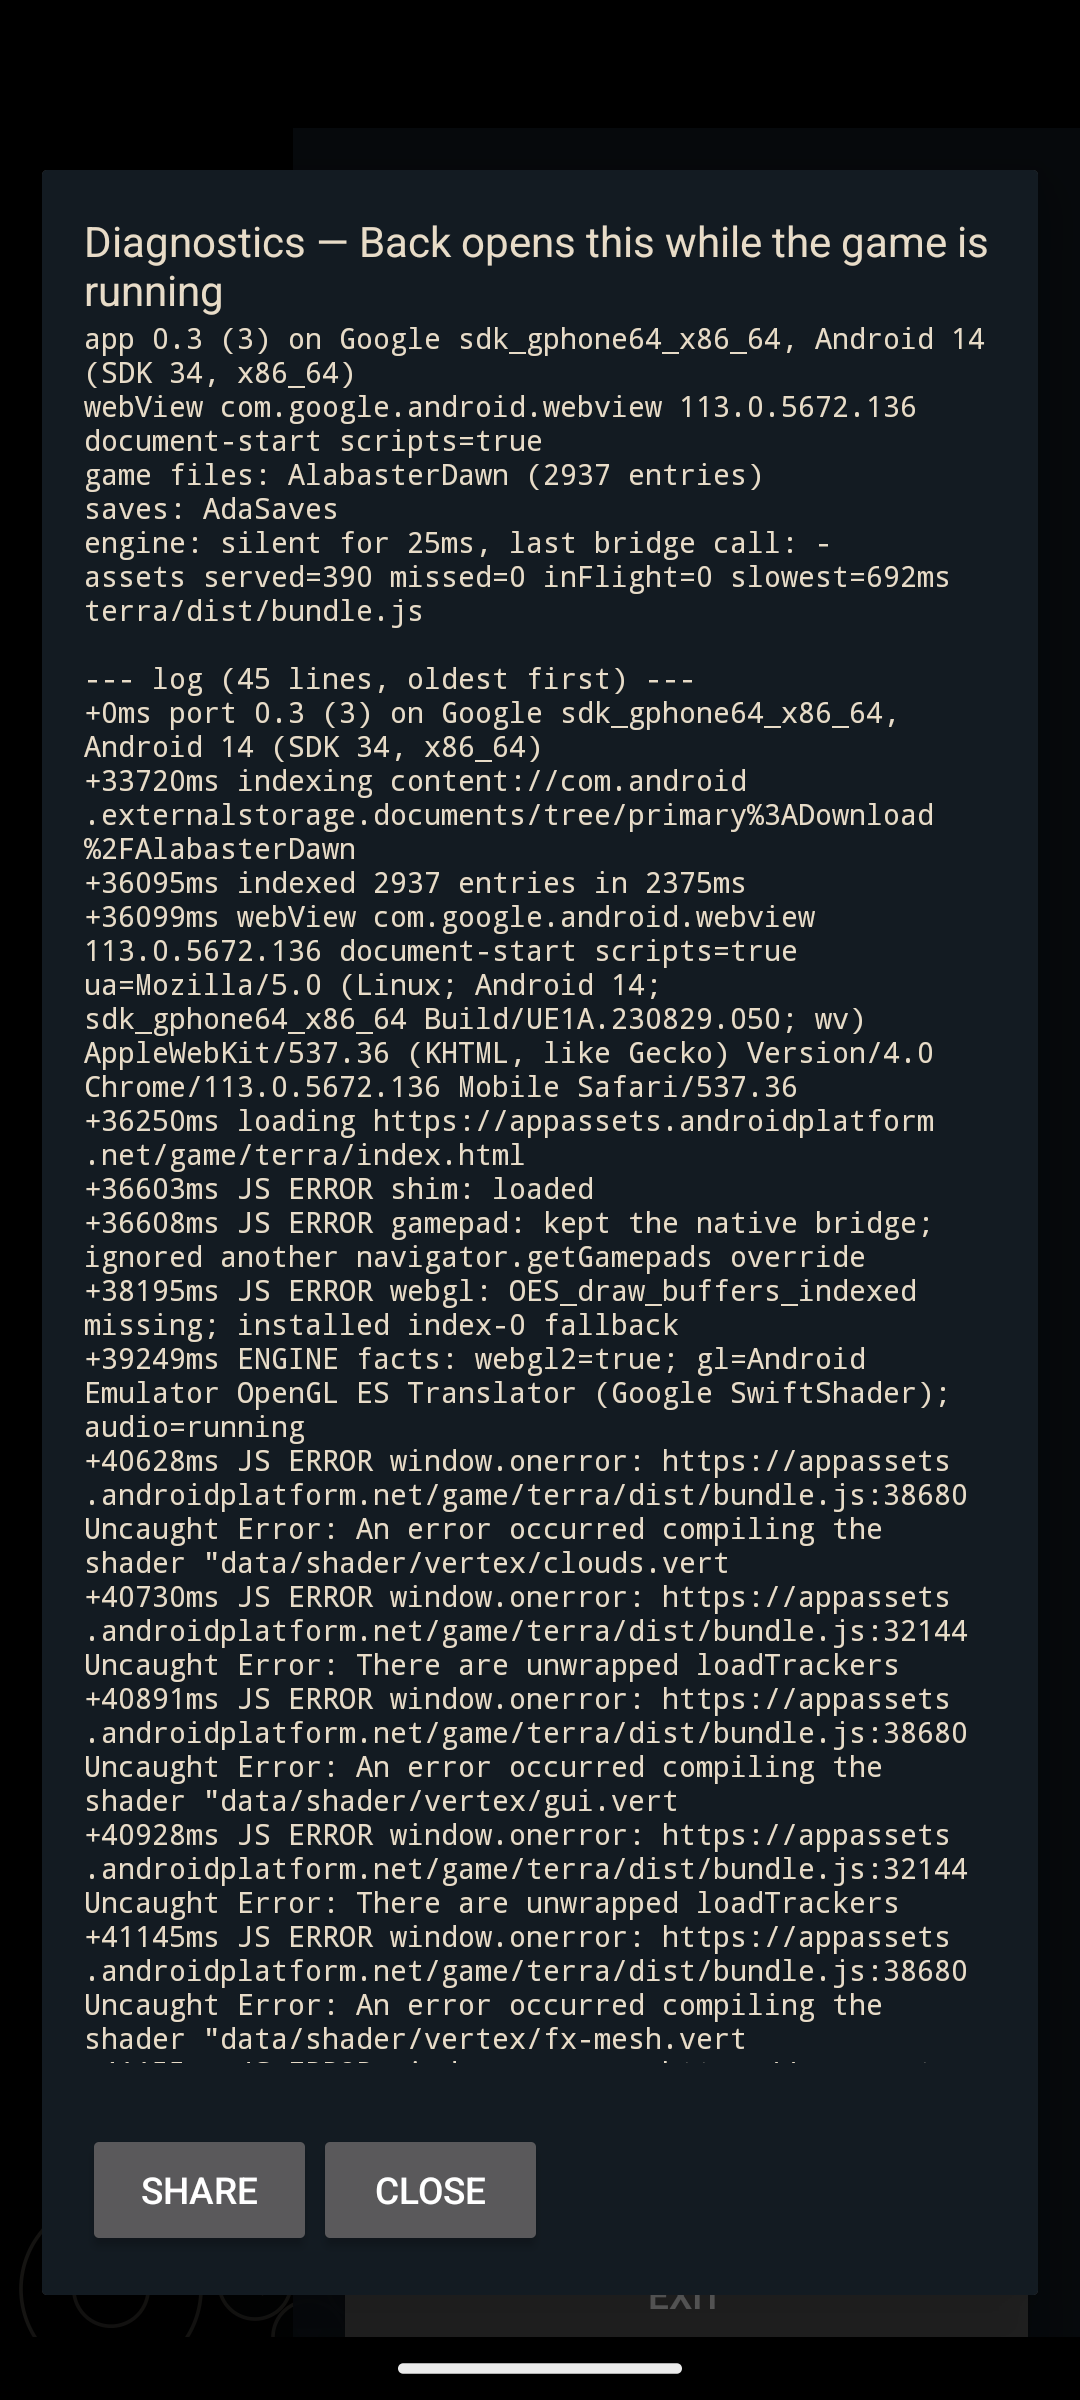
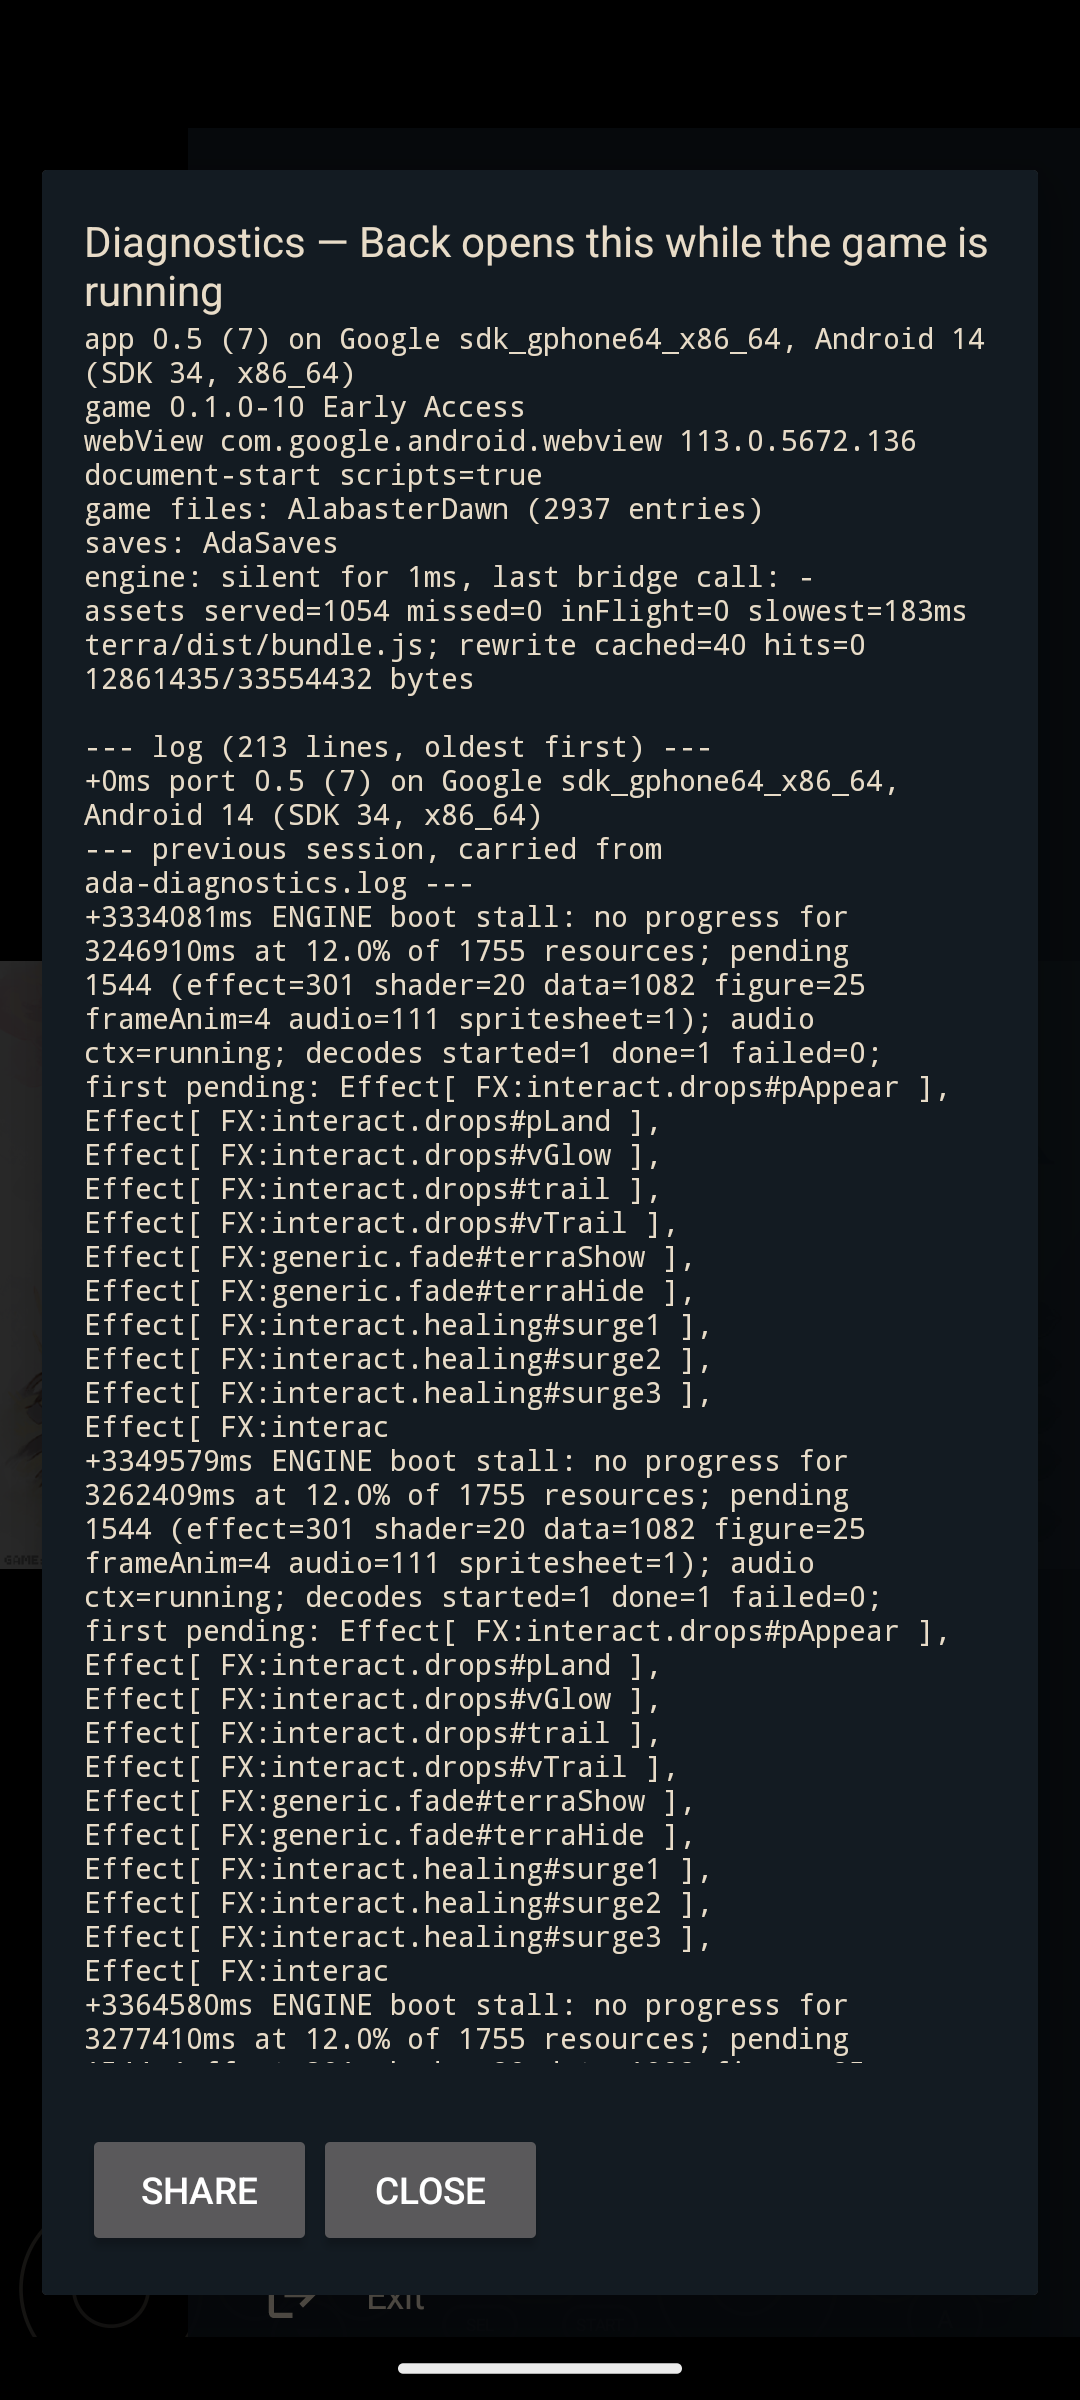
Release 0.5

Changed region(s): [[0.0, 0.1562, 0.8861, 0.875], [0.3361, 0.9375, 0.9472, 1.0], [0.7944, 0.2188, 0.8861, 0.2812]]

diff --git a/README.md b/README.md
@@ -16,9 +16,9 @@ Plus the research notes (`FINDINGS.md`) and the test harness (`tools/`, `logs/`)
 |---|---|---|---|
 | ![Game files and saves pickers](docs/setup.png) | ![Title screen](docs/title-screen.png) | ![On-screen pad over the title screen](docs/on-screen-pad.png) | ![Moving and resizing a pad control](docs/pad-editor.png) |
 
-![The side menu, opened with Back: the two switches, the picture position, the status lines and Exit — with the FPS/battery/temperature readout on](docs/side-menu.png)
+![The side menu, opened with Back: one uniform icon-led list — the switches, the picture position, the status block with the port version, Diagnostics and Exit — with the FPS/battery/temperature readout on](docs/side-menu.png)
 
-![The diagnostics record while the engine's boot was stuck: device, WebView, GL backend, asset counters, and the log naming the shader that failed to compile](docs/diagnostics.png)
+![The diagnostics record while the engine's boot was stuck: the port's and the game's versions, the device, WebView, GL backend, asset counters, and the log naming the resources still pending](docs/diagnostics.png)
 
 *Screenshots contain Alabaster Dawn artwork and text, © Radical Fish Games, shown for documentation.*
 
@@ -49,15 +49,26 @@ Plus the research notes (`FINDINGS.md`) and the test harness (`tools/`, `logs/`)
   `pad-layout.json` at its root, which wins on load so the layout travels with the saves folder.
   While the editor is open the pad publishes no gamepad at all, so the game falls back to keyboard.
 * **A side menu on Back**: Back while the game runs opens a panel over it (the game keeps running
-  behind) with a switch for whether a controller in use hides the overlay, a **Game position** choice
-  (Top / Center / Bottom) for where the picture sits inside the black letterbox bands, a switch for
-  an **FPS / battery / temperature** readout, a switch to **keep a log file with the saves**, two
-  status lines (controller input, where saves go), the last thing the engine reported, and **Exit**.
+  behind) drawn as one uniform, full-width, icon-led list — an Eden / Azahar style menu: every entry
+  is the same height with an icon in a fixed left gutter, the label on a single line with an ellipsis,
+  the control at the right edge, hairlines between rows, and the whole row (icon, label and empty
+  space) is the hit target. It carries a switch for whether a controller in use hides the overlay, a
+  **Game position** choice (Top / Center / Bottom) for where the picture sits inside the black
+  letterbox bands (the current choice is a filled pill), a switch for an **FPS / battery /
+  temperature** readout, a switch to **keep a log file with the saves**, the port version, three
+  status lines (controller input, where saves go, the last thing the engine reported) and **Exit**.
   Back again, a tap on the dimmed area or Exit closes it; all four settings live in the app's prefs,
   and nothing is written into the game folder — the saves tree only ever gains the Steam `Saves/`
-  layout, `pad-layout.json` and that log, all at its root.
-* **Diagnostics without a PC**: the same panel opens the record — device, WebView version and
-  capabilities, GL backend, folders, asset counters and the app's own log — readably on screen (a
+  layout, `pad-layout.json` and that log, all at its root. **Exit ends the app process** (the game's
+  own in-menu Exit does too — see below), so the next launch is a fresh process with a fresh WebView
+  renderer, and the saved record is flushed before the process goes.
+* **The game's own Exit works**: the title screen's **Exit** button (and `System.quit`) now leave the
+  app. The engine's only two ways out — `nw.Window.get().close()` and `nw.App.quit()` — used to be
+  shim no-ops, so the engine tore its own menu down and waited for a process exit that never came, and
+  the picture stopped responding. Both now reach the same path as the side menu's Exit.
+* **Diagnostics without a PC**: the same panel opens the record — device, **port version** and the
+  **game's own build version**, WebView version and capabilities, GL backend, folders, asset counters
+  and the app's own log — readably on screen (a
   screenshot is already a usable report), shareable as text, and written to a file next to the app.
   The record is built for the failure this port actually meets on hardware nobody here owns: when the
   engine's loading bar stops, it names the resources still unfinished, grouped by kind, with the
@@ -146,6 +157,30 @@ The panel and the log now also carry the device's uniform budget and forward the
 says so in the record. See `FINDINGS.md` §10.9 for the measurements, including what the fix costs (64
 fewer atlas slots per atlas on a floored device, out of the game's 256).
 
+The exit/version/side-menu work (2026-09-26) was verified on the same Android 14 emulator (`-gpu
+host`). Driving the engine's own exit over CDP — `python3 tools/probes/cdp.py
+'window.nw.Window.get().close()'`, the exact call the title screen's EXIT button makes — and the side
+menu's Exit both printed `exit requested`, left `pidof` empty and `dumpsys activity activities` with
+no task, so the next launch is a fresh process: three consecutive launches each reached `ENGINE boot:
+complete` with the title screen drawn and a new pid. The setup screen showed `port 0.5 (7)`, the
+side menu's status block the same line, and the in-game Diagnostics header `game 0.1.0-10 Early
+Access` — the game's own build, read from `bundle.js` (`class VersionManager { … }`, hotfix 10, suffix
+"Early Access"); the changelog at `terra/data/database/changelog.json` is the fallback (`0.1.0`)
+before the bundle is served. The side menu renders every entry at one width and height with its icon
+in the same left gutter and the current position as a filled pill; tapping a row's *blank left edge*
+toggled that row's switch, and with the menu left open for 12 s the watchdog logged no `engine silent`
+line, i.e. the WebView never lost focus.
+
+The **shipped release artifact** was then exercised the same way: `android/tools/release.sh`'s signed
+`AlabasterDawn-Android-0.5.apk` was installed on that emulator over a debug uninstall (the keys
+differ), granted the two folders from scratch through the picker, and it booted to the title screen and
+reported `port 0.5 (7)` / `game 0.1.0-10 Early Access`. Both exits were driven through the UI on it:
+the side menu's **Exit** and the game's own title-screen **Exit** (highlighted with the on-screen pad's
+D-pad and confirmed with **A** — the menu is pad-driven, a plain tap does nothing), each leaving no pid
+and no task, and a relaunch reached `ENGINE boot: complete` in a new process. The shim inside the
+release APK is byte-identical to `assets/ada-shim.js` (`sha256` matched), which is what makes the
+debug-build CDP evidence above carry over to the release build.
+
 ### Download
 
 Grab `AlabasterDawn-Android-<version>.apk` from
@@ -156,7 +191,7 @@ certificate** — `CN=Alabaster Dawn Android port, O=moronigranja, C=BR`, SHA-25
 install:
 
 ```bash
-apksigner verify --print-certs AlabasterDawn-Android-0.4.2.apk   # no SDK? keytool -printcert -jarfile …
+apksigner verify --print-certs AlabasterDawn-Android-0.5.apk   # no SDK? keytool -printcert -jarfile …
 ```
 
 The APK carries `assets/LICENSE` + `assets/NOTICE.md` inside, so the binary ships the notices it is
@@ -165,16 +200,16 @@ say) needs an uninstall first.
 
 ### Not in this milestone
 
-* **Starting the game twice in the same app process can come up black.** Leaving the game (Back at
-  the side menu, or Exit) and starting it again *without* clearing the app from recents can stop the
-  second boot before the title screen with an unresponsive picture. It predates this release
-  (reproduced on the v0.2 build) and the workaround is to swipe the app away from recents — or
-  force-stop it — before starting again, which always boots. Your files are untouched either way.
 * The on-screen pad's stick **clicks** (L3/R3) are not exposed, and its multi-finger handling has
   unit tests but no real two-thumb pass on a phone yet.
 * The in-game **Load** list was not eyeballed (needs a manual save); everything underneath it —
   file naming, rotation, metadata, `mtime` — is verified.
 * Performance is GPU-bound; see the ledger below before expecting 1080p.
+* **The emulator's software GL stack draws the in-game map wrong.** SwiftShader
+  (`-gpu swiftshader_indirect`) renders black tiles with purple/pink fragments where the *same build*
+  is correct on real hardware and on the same emulator with the host GPU (`-gpu host`). The port
+  serves identical files and shaders either way, so it is the software renderer, not the port; the
+  title screen, cutscenes and menus draw correctly under it.
 
 ### Requirements
 
@@ -193,7 +228,8 @@ adb install -r app/build/outputs/apk/debug/app-debug.apk
 ```
 
 Unit tests (gamepad state and overlay merge, pad layout and hit rules, the diagnostics ring and its
-line collapsing, the asset-read accounting, the rewrite cache's byte budget, and the log-file rules):
+line collapsing, the asset-read accounting, the rewrite cache's byte budget, the game-version parsing
+from the changelog and the bundle, and the log-file rules):
 
 ```bash
 cd android && ./gradlew :app:testDebugUnitTest
@@ -216,8 +252,12 @@ keytool -genkeypair -keystore ~/.android/alabasterdawn-release.jks -alias alabas
 # then android/keystore.properties: storeFile / storePassword / keyAlias / keyPassword (chmod 600)
 
 android/tools/release.sh                       # signed build + digest + signature check
-android/tools/release.sh --upload --publish --notes docs/release-notes-0.4.2.md
+android/tools/release.sh --upload --publish --notes docs/release-0.5.md
 ```
+
+`--notes` takes the **release body**: since v0.5 that is a terse changelog plus links to the full
+`docs/release-notes-<version>.md` and the README, so the GitHub release page stays short and the
+install/requirements/limitations text lives in the README only.
 
 `tools/release.sh` renames the shipped artifact to `AlabasterDawn-Android-<version>.apk` (never
 `app-release-unsigned.apk`, never `app-debug.apk`) and runs the digest and signature checks on that
@@ -387,7 +427,9 @@ in `gamepad-fix.json`, or use `fix/gpf-diagnose.js` and `tools/inpage-probe.js`.
 ```
 android/    the port (Gradle root + :app; Kotlin, no permissions, one runtime dependency)
             tools/release.sh builds, verifies and publishes the signed APK
-docs/       screenshots used by this README, plus the release notes for each version
+docs/       screenshots used by this README, the release notes for each version
+            (`release-notes-<v>.md`, the detailed document) and its terse release-page
+            body (`release-<v>.md`, the changelog plus links)
 fix/        controller fix for the desktop / Wine build (installer, config, tests, diagnosis)
 tools/      measurement harness: uinput virtual gamepad, in-page probe, fast static server,
             the Node/NW.js browser shim that proved the port feasible
@@ -425,6 +467,8 @@ only change needed (at which point the sub-projects here follow automatically).
   whose explicit browser platform path is what makes this port possible.
 * **[AndroidX WebKit](https://developer.android.com/jetpack/androidx/releases/webkit)** — Apache-2.0
   (`WebViewAssetLoader`, `addDocumentStartJavaScript`).
+* **[Material Symbols](https://fonts.google.com/icons)** — Apache-2.0, © Google LLC; the side menu's
+  icons, converted to vector drawables.
 * **[Gradle](https://gradle.org/)** — the wrapper (`android/gradle/wrapper/`) is Apache-2.0,
   © Gradle, Inc.
 * **[CrossAndroid](https://gitlab.com/Namnodorel/crossandroid)** — prior art for running this engine

diff --git a/docs/release-notes-0.5.md b/docs/release-notes-0.5.md
@@ -1,0 +1,80 @@
+# Alabaster Dawn Android port v0.5 - release notes
+
+An **unofficial**, non-commercial Android port of [Alabaster Dawn](https://store.steampowered.com/app/3110760/)
+(Radical Fish Games, Early Access). Install, requirements, known limitations and the legal notes are
+in the [README](../README.md); the terse changelog is [docs/release-0.5.md](release-0.5.md).
+
+## What's new since v0.4.2
+
+### Exiting the game actually exits
+
+On the title screen, choosing **Exit** used to stop the picture with the game's own menu already gone.
+The engine has only two ways out — the title screen's EXIT calls `nw.Window.get().close()` 300 ms later,
+and `System.quit()` calls `nw.App.quit()` — and the port's shim had both stubbed out as no-ops. The
+engine tore its own menu down and then waited for a process exit that never came, so the screen just
+stopped responding. Both now leave the game, exactly like the port's own **Exit**.
+
+### Every launch is a fresh start
+
+**Exit** — the game's or the port's — now ends the app's process rather than just the screen. That
+matters because the WebView's renderer is shared for the life of the app process, and starting the game
+a second time in the same process could come up black before the title screen (the workaround used to be
+to swipe the app away from recents). With the process ending on Exit, the next launch is a new process,
+a new renderer and a clean GL state: **the old "swipe it from recents first" workaround is gone.**
+
+Your diagnostics record is written out before the process ends, so nothing is lost.
+
+### The side menu is a proper settings list
+
+The side menu (Back while the game runs) is now one uniform, full-width, icon-led list — the layout the
+Eden / Sudachi / Azahar emulators use: every entry the same width and height, an icon in a fixed left
+gutter, the label on a single line, the control at the right edge, thin dividers between rows, and the
+**whole row** is the tap target instead of just the label. The current **Game position** is a filled
+pill.
+
+### Your versions, where you can see them
+
+* The **port's** version now shows on the setup screen and in the side menu's status block, next to the
+  existing diagnostics header line — so a screenshot says which build it came from.
+* The record now also says which build of the **game** your files are. The game's own `package.json`
+  only carries a placeholder, so the port reads the two real sources: the newest release from
+  `terra/data/database/changelog.json` as soon as your folder is indexed (`game 0.1.0`), and the engine's
+  own inlined build once `bundle.js` is served, which is the only place the hotfix lives
+  (`game 0.1.0-10 Early Access`). An Early Access title ships often, and a moved asset or a changed
+  bundle is otherwise indistinguishable from a port bug.
+
+## Verified
+
+On the Android 14 emulator with the host GPU (`-gpu host`), then on the shipped **release** APK:
+driving the engine's own exit over CDP (`nw.Window.get().close()`, the exact call the title screen's
+EXIT makes) and both UI exits — the side menu's **Exit** and the game's own title-screen **Exit**,
+highlighted with the on-screen pad's D-pad and confirmed with **A** — each printed `exit requested`,
+left no pid and **no task in recents**, and set up the next launch fresh: three consecutive launches
+each reached `ENGINE boot: complete` with the title screen drawn and a new process id. The setup screen
+and the side menu showed `port 0.5 (7)`, the diagnostics header read `game 0.1.0-10 Early Access`,
+every menu row drew at one width/height with its icon in the same left gutter, tapping a row's *blank
+left edge* toggled that row's switch, and with the menu left open the engine kept running (the WebView
+never lost focus).
+
+## Known limitations
+
+* The on-screen pad's stick **clicks** (L3/R3) are not exposed, and its multi-finger handling has unit
+  tests but no real two-thumb pass on a phone yet.
+* Devices at the GLES3 vertex-uniform floor get **192 atlas slots per atlas** where the desktop game
+  uses 256 (those are exactly the devices that could not boot at all before v0.4.2). If a scene ever
+  needs more, the engine logs `ATLAS ERROR: Exceeded maximum TEX_SLOT_COUNT of …` into the record.
+* The Android emulator's software GL stack (SwiftShader, `-gpu swiftshader_indirect`) draws the in-game
+  map wrong — black tiles with purple/pink fragments — while the same build is correct on real hardware
+  and on the same emulator with the host GPU (`-gpu host`). The port serves identical files and shaders
+  either way, so it is the software renderer, not the port.
+* Performance is GPU-bound; see the README's ledger before expecting 1080p.
+
+## Everything else is v0.4.2
+
+This release is v0.4.2 plus the changes above: the vertex-uniform fix for the frozen loading bar, the
+diagnostics record (device, GL limits, the engine's own console errors, and the log file with the saves),
+Back opening the menu, the scrolling side menu, the on-screen pad and its layout editor, controller
+hiding the overlay, saves through a second picked folder in the Steam layout, the resolution ladder
+`640x360 / 960x540 / 1280x720 / 1920x1080 / 2560x1440`, pausing when the app leaves the foreground,
+immersive fullscreen and renderer-crash recovery. Full notes:
+[v0.4.2](https://github.com/moronigranja/alabaster-android/releases/tag/v0.4.2).

diff --git a/docs/release-0.5.md b/docs/release-0.5.md
@@ -1,0 +1,14 @@
+## v0.5
+
+* **Exiting the game works.** The title screen's **Exit** and `System.quit` were shim no-ops, so the
+  engine hid its own menu and waited for a process exit that never came — the frozen picture that
+  ends issue #1. Both now leave the app.
+* **Exit ends the app process**, so the next launch is a fresh process with a fresh WebView renderer.
+  The old "swipe it out of recents first or the second start comes up black" workaround is gone.
+* **The side menu** (Back) is now one uniform, full-width, icon-led list — the whole row is the tap
+  target, and the current picture position is a filled pill.
+* **The port's version** is on the setup screen and in the side menu's status block.
+* **The record names the game's build too**, not just the port's: `game 0.1.0-10 Early Access`.
+
+Full release notes: [docs/release-notes-0.5.md](https://github.com/moronigranja/alabaster-android/blob/main/docs/release-notes-0.5.md)
+Install, requirements and known limitations: [README](https://github.com/moronigranja/alabaster-android#readme)
